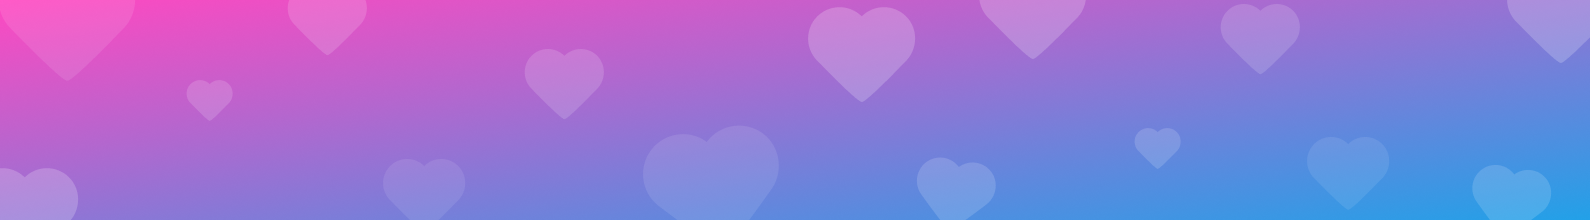
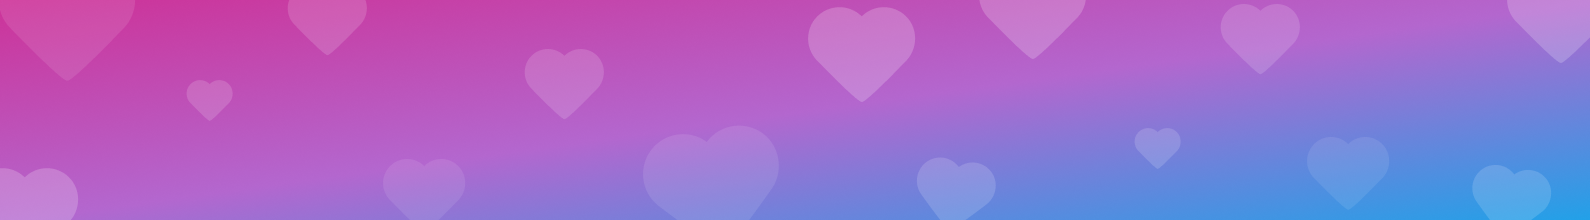
adicionando botoes de avancar e voltar musica, botao de volume e atualizando cores

diff --git a/src/js/script.js b/src/js/script.js
@@ -4,54 +4,62 @@ const baseMusicas = [
         'artist':'Northon Pinheiro',
         'path':'./src/audio/Carismatos.mp3',
         'album':'Alma Nua',
+        'img':'./src/img/alma_nua',
     },
     {
         'name':'Motivos (Washer)',
         'artist':'João Manô',
         'path':'./src/audio/Motivos (Washer).mp3',
         'album':'Ecoar',
+        'img':'./src/img/alma_nua',
     },
     {
         'name':'Paciência',
         'artist':'João Manô',
         'path':'./src/audio/Paciência.mp3',
         'album':'Volver',
+        'img':'./src/img/alma_nua',
     },
     {
         'name':'Passa Tempo (feat. Ramon Souza)',
         'artist':'Julhin de Tia Lica',
         'path':'./src/audio/Passa Tempo (feat. Ramon Souza).mp3',
         'album':'Auto do Céu',
+        'img':'./src/img/alma_nua',
     },
     {
         'name':'Passará',
         'artist':'Northon Pinheiro',
         'path':'./src/audio/Passará.mp3',
         'album':'Alma Nua',
+        'img':'./src/img/alma_nua',
     },
     {
         'name':'Primeiro (feat. João Manô)',
         'artist':'Ana Heloysa',
         'path':'./src/audio/Primeiro - Ana Heloysa (feat. João Manô).mp3',
-        'album':'Primeiro (feat. João Manô)',
+        'album':'Primeiro',
+        'img':'./src/img/alma_nua',
     },
     {
         'name':'Temporais',
         'artist':'João Manô',
         'path':'./src/audio/Temporais.mp3',
         'album':'Volver',
+        'img':'./src/img/volver',
     }
 ];
 
 const listaMusicas = document.querySelector('.listaMusicas');
-
 const tagAudio = document.getElementById('saidaAudio');
 const primeiraMusica = baseMusicas[0];
 tagAudio.src = primeiraMusica.path;
+atualizaPlayer(baseMusicas[0].artist, baseMusicas[0].name, baseMusicas[0].img);
 
 const botaoPausar = document.getElementById('btnPause');
-
 const botaoPlay = document.getElementById('btnControlPlay')
+
+let musicaAtual = 0;
 
 function construirPlaylist(musica, musicaId) {
     const musicaElemento = document.createElement('li');
@@ -85,18 +93,79 @@ function tocarMusica(evento){
     const elementoClicado = evento.currentTarget;
 
     if(elementoClicado.tagName == 'LI'){
-    const musicaId = elementoClicado.dataset.id;
-    const musicaSelecionada = baseMusicas[musicaId];
+        const musicaId = elementoClicado.dataset.id;
+        const musicaSelecionada = baseMusicas[musicaId];
 
-    tagAudio.src = musicaSelecionada.path;
-    tagAudio.play();
-    } else {
+        tagAudio.src = musicaSelecionada.path;
+        musicaAtual = Number(musicaId);
         tagAudio.play();
-    }    
+        botaoPlay.classList.add('pause');
+        atualizaPlayer(baseMusicas[musicaAtual].artist, baseMusicas[musicaAtual].name, baseMusicas[musicaAtual].img);
+
+    } else {
+        if(tagAudio.paused) {
+            tagAudio.play();
+            botaoPlay.classList.add('pause');
+        } else {
+            tagAudio.pause();
+            botaoPlay.classList.remove('pause');
+    }
 }
 botaoPlay.addEventListener('click', tocarMusica)
 
 function pausarMusica(){
     tagAudio.pause();
+    botaoPlay.classList.remove('pause');
 }
 botaoPausar.addEventListener('click', pausarMusica);
+}
+
+function tocarProximaMusica(){
+    if(musicaAtual === baseMusicas.length - 1){
+        musicaAtual = 0
+    }else{
+        musicaAtual++
+    }
+
+    tagAudio.src = baseMusicas[musicaAtual].path
+    tagAudio.play()
+
+    let nomeArtista = baseMusicas[musicaAtual].artist;
+    let nomeMusica = baseMusicas[musicaAtual].name;
+    let fotoAlbum = baseMusicas[musicaAtual].img;
+    atualizaPlayer(nomeArtista, nomeMusica, fotoAlbum)
+    botaoPlay.classList.add('pause');
+}
+const btnControlNext = document.getElementById('btnControlNext');
+btnControlNext.addEventListener('click', tocarProximaMusica)
+
+function tocarMusicaAnterior(){
+    if(musicaAtual === 0){
+        musicaAtual = baseMusicas.length - 1
+    }else{
+        musicaAtual--
+    }
+
+    tagAudio.src = baseMusicas[musicaAtual].path
+    tagAudio.play()
+    atualizaPlayer(nomeArtista, nomeMusica, fotoAlbum)
+    botaoPlay.classList.add('pause');
+}
+const btnControlPrev = document.getElementById('btnControlPrev');
+btnControlPrev.addEventListener('click', tocarMusicaAnterior);
+
+const areaPlayerVolume = document.querySelector('.areaPlayerVolume input');
+
+areaPlayerVolume.addEventListener('input', function(){
+    tagAudio.volume = areaPlayerVolume.value;
+})
+
+function atualizaPlayer(nome, musica, foto){
+    const nomeMusica = document.getElementById('nomeMusica');
+    const nomeArtista = document.getElementById('nomeArtista');
+    const fotoAlbum = document.getElementById('fotoAlbum');
+
+    fotoAlbum.src = foto;
+    nomeMusica.innerText = musica;
+    nomeArtista.innerText = nome;
+}

diff --git a/index.html b/index.html
@@ -37,7 +37,7 @@
                             </a>
                         </li>
                         <li>
-                            <a href="">
+                            <a href=""  class = "fav">
                                 <img src="./src/img/icone3.png" alt="Favoritas">
                                     Favoritas
                             </a>
@@ -58,7 +58,7 @@
                     </div>
 
                     <div class="qtdMusicas">
-                        <p>1158 músicas</p>
+                        <p>7 músicas</p>
                     </div>
                 </header>
                 <!-- CABEÇALHO DA LISTA DE MÚSICAS -->
@@ -81,7 +81,7 @@
 
                 <div class="infoMusicaAtual">
                     <figure class="imagemAlbum">
-                        <img src="./src/img/volver.png" alt="Album">
+                        <img id="fotoAlbum" src="./src/img/volver.png" alt="Album">
                         <figcaption>Legenda</figcaption>
                     </figure>
                     <div class="infoAlbum">
@@ -97,7 +97,7 @@
                 </div>
 
                 <div class="areaPlayerVolume">
-                <input type="range" value="1" step="0.1">
+                <input type="range" max="1" value="1" step="0.1">
                 </div>
 
             </section>

diff --git a/src/css/style.css b/src/css/style.css
@@ -43,11 +43,17 @@ main{
     color: #F1F1F1;
     display: flex;
     align-items: center;
+    border-radius: 7px;
+    padding: 8px 20px;
 }
 .listaLinks > li > a >img{
     width: 28px;
     margin-right: 20px;
 }
+.fav{
+    background-color: #CD3298;
+}
+
 
 /* SEÇÃO LISTA DE MÚSICAS */
 
@@ -61,7 +67,6 @@ main{
     background-position: center;
     background-repeat: no-repeat;
     height: 180px;
-    display: flex;
     flex-direction: relative;
     padding: 20px 80px;
 }
@@ -74,8 +79,8 @@ main{
     align-items: center;
     float: right;
     position: relative;
-    left: 75%;
-    top: -25%;
+    left: 0%;
+    top: 15%;
 }
 .user > img{
     margin-right: 20px;
@@ -88,8 +93,8 @@ main{
 
 .qtdMusicas{
     position: relative;
-    right: 175px;
-    top: 110px;
+    right: 10px;
+    top: 100px;
 }
 .qtdMusicas > p{
     font-size: 28px;
@@ -102,7 +107,7 @@ main{
     padding: 20px 80px;
 }
 #btnPause{
-    background-color: #FF48C1;
+    background-color: #CD3298;
     color: #F1F1F1;
     border: none;
     text-transform: uppercase;
@@ -140,7 +145,7 @@ main{
 .listaMusicas > li > .primeiroItem{
     width: 60%;
 }
-.listaMusicas > li > p{
+.listaMusicas> li > p{
     width: 25%;
 }
 
